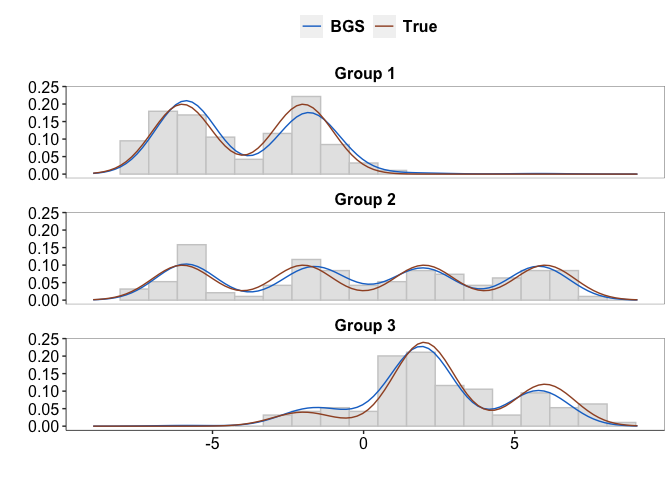
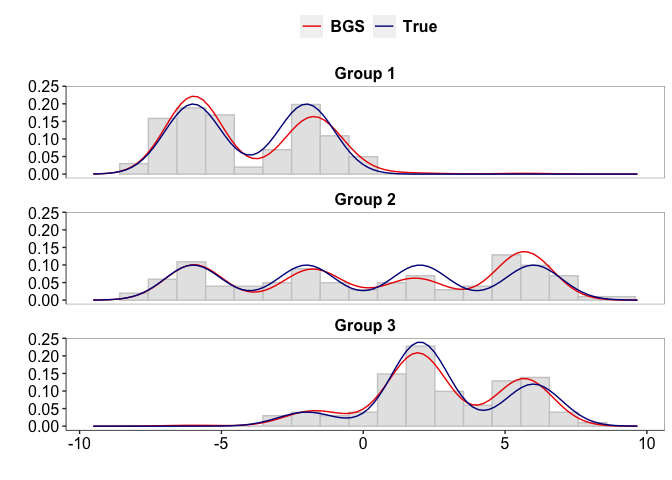
Modified documentation in README file.

diff --git a/README.md b/README.md
@@ -1,7 +1,7 @@
 Blocked Gibbs sampler for hierarchical Dirichlet processes
 ================
 
-Implementation of sampling algorithm presented in the paper, Das, S.,
+Implementation of sampling algorithm proposed in the paper, Das, S.,
 Niu, Y., Ni, Y., Mallick, B.K., and Pati, D. (2023+) “Blocked Gibbs
 sampler for hierarchical Dirichlet processes”.
 
@@ -118,7 +118,11 @@ G = 1; B = 0.1; L.max = 10
 # grid points for density estimation
 xmin = min(unlist(x)) - 1 ; xmax = max(unlist(x)) + 1
 y.grid = seq(xmin, xmax, length = 100)
+```
 
+**Run the blocked Gibbs sampler** :
+
+``` r
 # run the blocked gibbs sampler
 out_BGS = blocked_gibbs(x = x, L.max = L.max, gam = G, phi.param = c(xi, lambda, tau), 
                         b0 = B, Burn.in = M.burn, M = M, est.density = TRUE,y.grid = y.grid)
@@ -163,12 +167,13 @@ g3 = plot_clusters(3, clusters)
 ggarrange(g1$g.true, g1$g.hat, g2$g.true, g2$g.hat, g3$g.true, g3$g.hat, ncol=2, nrow = 3)
 ```
 
-![](README_files/figure-gfm/unnamed-chunk-5-1.png)<!-- -->
+![](README_files/figure-gfm/unnamed-chunk-6-1.png)<!-- -->
 
-The adjusted Rand index between the true and BGS cluster labels :
+The adjusted Rand indices between the true and estimated cluster labels
+:
 
 ``` r
-# Global adjusted Rand index
+# Adjusted Rand index corresponding to global cluster labels
 ARI.global = mcclust::arandi(unlist(Z.hat), unlist(true.Z))
 ARI.global
 ```
@@ -176,14 +181,15 @@ ARI.global
     ## [1] 0.9453478
 
 ``` r
-# Group specific adjusted Rand indices
-ARI = sapply(seq_len(J), function(j) arandi(Z.hat[[j]], true.Z[[j]]))
+# Adjusted Rand indices corresponding to group specific cluster labels
+ARI = sapply(seq_len(J), function(j) mcclust::arandi(Z.hat[[j]], true.Z[[j]]))
 ARI
 ```
 
     ## [1] 0.9830315 0.9229645 0.8925251
 
-We estimate the densities for each group.
+Densities corresponding to each group is estimated using posterior
+samples.
 
 ``` r
 # True density for each group
@@ -209,7 +215,8 @@ on the histograms of the observed data** :
 # data frames for plotting histograms and densities
 dat_hist = data.frame(x = unlist(x), group = rep(c("Group 1", "Group 2", "Group 3"), each = n[1]))
 dens = c(cbind(t(true.density), t(est.dens)))
-dat_dens = data.frame(grid = y.grid, density = dens, method = rep(c("True", "BGS"), each = 3*100), group = rep(c("Group 1", "Group 2", "Group 3"), each = 100, times = 2))
+dat_dens = data.frame(grid = y.grid, density = dens, method = rep(c("True", "BGS"), each = 3*100), 
+                      group = rep(c("Group 1", "Group 2", "Group 3"), each = 100, times = 2))
 
 # plot the histograms for each group
 g.hist = ggplot(dat_hist, aes(x = x))  +
@@ -217,11 +224,11 @@ g.hist = ggplot(dat_hist, aes(x = x))  +
   facet_wrap(~as.factor(group), ncol = 1) + xlim(xmin, xmax) + themegg
 
 # overlay the histograms with density plots
-g.hist + geom_line(dat_dens, mapping = aes(x = grid, y = density, color = method, size = method)) +
-  scale_size_manual(values = c(True = 0.5, BGS = 0.5))+
-  scale_color_manual(values=c("dodgerblue3", "sienna"))+ 
-  labs(x = "", y = "") + guides(size = guide_legend(nrow = 1)) +
+g.hist + 
+  geom_line(dat_dens, mapping = aes(x = grid, y = density, color = method, size = method)) +
+  scale_size_manual(values = c(True = 0.5, BGS = 0.5)) +
+  scale_color_manual(values=c("red2","blue4")) + labs(x = "", y = "") + 
   theme(legend.position = "top", legend.title=element_blank()) + themegg
 ```
 
-![](README_files/figure-gfm/unnamed-chunk-8-1.png)<!-- -->
+![](README_files/figure-gfm/unnamed-chunk-9-1.png)<!-- -->
